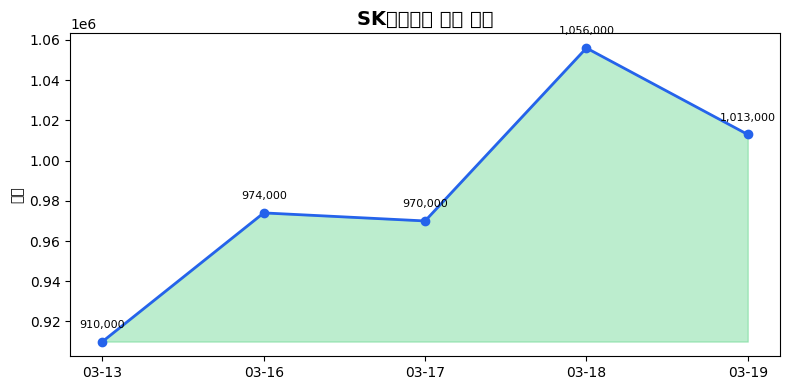
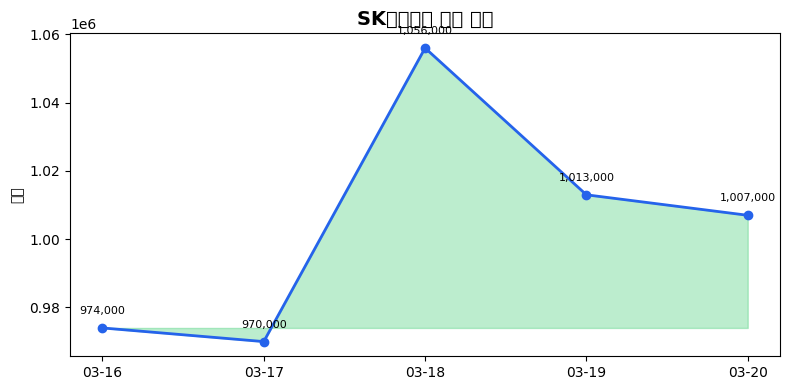
report: 2026-03-21 일일 리포트

diff --git a/reports/report_20260321.md b/reports/report_20260321.md
@@ -1,0 +1,98 @@
+# 일일 주식 리포트 (2026-03-21)
+
+## 📊 요약
+
+- 🇺🇸 미국: 0상승 5하락
+- 🇰🇷 한국: 1상승 2하락
+
+## 🇺🇸 미국 주식
+
+### 🔴 AAPL
+- 종가: $247.99
+- 변동: $-0.97 (-0.39%)
+
+![AAPL 차트](charts/AAPL_weekly.png)
+
+**관련 뉴스:**
+- [Nvidia’s headquarters: An ode to space and 3D rendering](None)
+- [How Apple Is Winning China's Brutal Smartphone Price War](None)
+- [Apple App Rules On AI Coding And China Scrutiny Shape Investor Focus](None)
+
+### 🔴 MSFT
+- 종가: $381.87
+- 변동: $-7.15 (-1.84%)
+
+![MSFT 차트](charts/MSFT_weekly.png)
+
+**관련 뉴스:**
+- [Microsoft Is Now the Cheapest "Magnificent Seven" Stock. Does That Make It a Buy?](None)
+- [Jensen Huang says CEOs ‘out of imagination’ for culling workers because of AI. Why he’s doubting his biggest customers](None)
+- [RBC Capital and Jefferies Keep Bullish Ratings on Microsoft (MSFT)](None)
+
+### 🔴 GOOGL
+- 종가: $301.00
+- 변동: $-6.13 (-2.00%)
+
+![GOOGL 차트](charts/GOOGL_weekly.png)
+
+**관련 뉴스:**
+- [Microsoft Is Now the Cheapest "Magnificent Seven" Stock. Does That Make It a Buy?](None)
+- [Alphabet (GOOGL): 10 Best AI Stocks to Buy for the Next 10 Years](None)
+- [Needham Confident of Alphabet Stock (GOOGL) Free Cash Flow Generation Capabilities Amid AI Disruption](None)
+
+### 🔴 TSLA
+- 종가: $367.96
+- 변동: $-12.34 (-3.24%)
+
+![TSLA 차트](charts/TSLA_weekly.png)
+
+**관련 뉴스:**
+- [BMW's new i3 EV takes on Tesla with 440-mile range](None)
+- [Stellantis Charging And Hybrid Moves Contrast With Depressed Share Valuation](None)
+- [Is Tesla, Inc. (TSLA)  A Good Stock To Buy Now?](None)
+
+### 🔴 NVDA
+- 종가: $172.70
+- 변동: $-5.86 (-3.28%)
+
+![NVDA 차트](charts/NVDA_weekly.png)
+
+**관련 뉴스:**
+- [Nvidia's changing its strategic approach to AI, going all in on inferencing and agents](None)
+- [Salesforce And NVIDIA Target Regulated Clients With Enterprise AI Agents](None)
+- [Is Berkshire Hathaway Stock a Buy Right Now?](None)
+
+## 🇰🇷 한국 주식
+
+### 🔴 삼성전자 (005930)
+- 종가: 199,400.0원
+- 변동: -1,100.0원 (-0.55%)
+
+![삼성전자 차트](charts/삼성전자_weekly.png)
+
+**관련 뉴스:**
+- [중동 전쟁 이후 투자 성적표…외국인 선방·개인은 '울상'](https://n.news.naver.com/mnews/article/001/0015973685)
+- [中 로봇청소기 '가격 인하' 가심비↑…삼성·LG전자 '프리미엄' 맞불](https://n.news.naver.com/mnews/article/421/0008840575)
+- [&quot;스타기업 양성&quot; vs &quot;양극화 심화&quot;…코스닥 리그제 두고 온도차](https://n.news.naver.com/mnews/article/001/0015973683)
+
+### 🔴 SK하이닉스 (000660)
+- 종가: 1,007,000.0원
+- 변동: -6,000.0원 (-0.59%)
+
+![SK하이닉스 차트](charts/SK하이닉스_weekly.png)
+
+**관련 뉴스:**
+- [중동 전쟁 이후 투자 성적표…외국인 선방·개인은 '울상'](https://n.news.naver.com/mnews/article/001/0015973685)
+- [&quot;스타기업 양성&quot; vs &quot;양극화 심화&quot;…코스닥 리그제 두고 온도차](https://n.news.naver.com/mnews/article/001/0015973683)
+- [[마켓인사이트] 트럼프, 결국 확전 택할까…또다시 치솟는 변동성](https://n.news.naver.com/mnews/article/001/0015973672)
+
+### 🟢 카카오 (035720)
+- 종가: 50,000.0원
+- 변동: +0.0원 (+0.00%)
+
+![카카오 차트](charts/카카오_weekly.png)
+
+**관련 뉴스:**
+- [[실제 써보니] 카톡 AI비서 '카나나'…추천 빠른데 예약은 삐걱](https://n.news.naver.com/mnews/article/001/0015973659)
+- [카페24, 종합 e커머스 플랫폼 전환 가속…'당근과 채찍' 병행](https://n.news.naver.com/mnews/article/421/0008840549)
+- [네이버 R&amp;D 2.2조 돌파…AI 투자비용 청구서 먼저 받은 IT업계](https://n.news.naver.com/mnews/article/008/0005333162)
